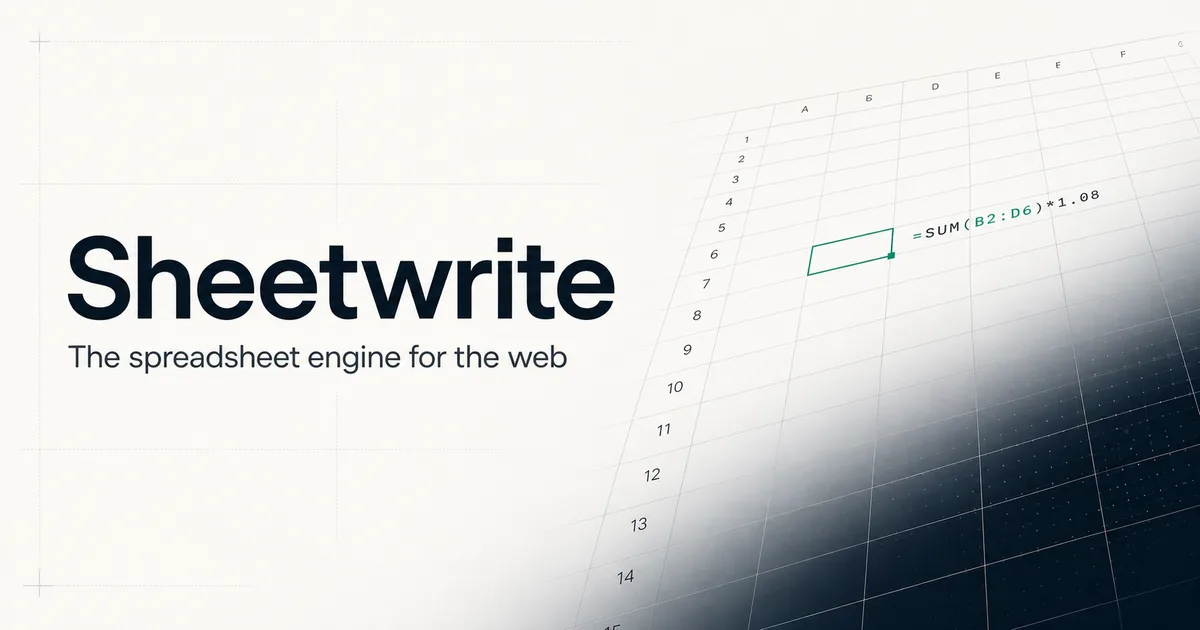
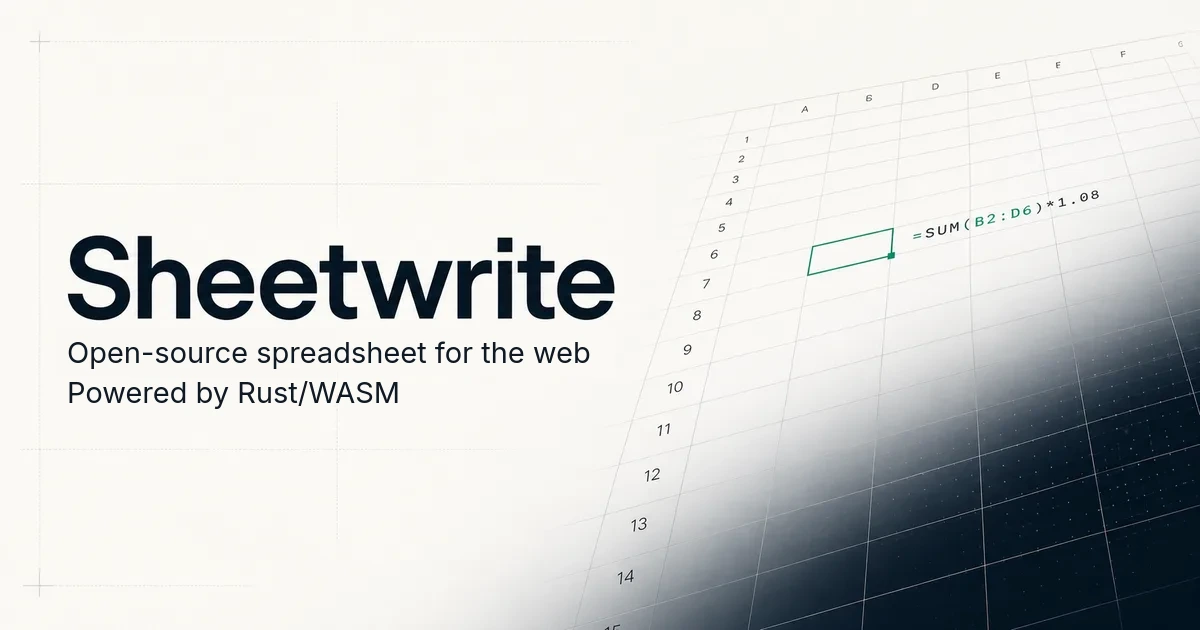
chore: capture current release baseline

Changed region(s): [[0.0308, 0.5429, 0.4933, 0.6635]]

diff --git a/docs/src/routes/__root.tsx b/docs/src/routes/__root.tsx
@@ -13,7 +13,7 @@ const THEME_SCRIPT =
 
 const SITE_URL = "https://sheetwrite.vercel.app";
 const SITE_DESCRIPTION =
-  "Build fast, editable web spreadsheets with TypeScript, Canvas, Rust/WASM, and first-party React, Vue, Svelte, and vanilla JavaScript adapters.";
+  "A fast, editable web spreadsheet and data-grid library with a TypeScript API and Rust/WASM engine. React, Vue, Svelte, and vanilla adapters included.";
 const SOCIAL_IMAGE_ALT = "Sheetwrite spreadsheet grid showing typed web data";
 const STRUCTURED_DATA = JSON.stringify({
   "@context": "https://schema.org",
@@ -66,7 +66,10 @@ export const Route = createRootRoute({
         { property: "og:type", content: "website" },
         { property: "og:site_name", content: "Sheetwrite" },
         { property: "og:locale", content: "en_US" },
-        { property: "og:title", content: "Sheetwrite — TypeScript spreadsheet engine" },
+        {
+          property: "og:title",
+          content: "Sheetwrite — Web spreadsheet library powered by Rust/WASM",
+        },
         { property: "og:description", content: SITE_DESCRIPTION },
         { property: "og:url", content: canonical },
         { property: "og:image", content: `${SITE_URL}/og-sheetwrite.webp` },
@@ -74,7 +77,10 @@ export const Route = createRootRoute({
         { property: "og:image:height", content: "630" },
         { property: "og:image:alt", content: SOCIAL_IMAGE_ALT },
         { name: "twitter:card", content: "summary_large_image" },
-        { name: "twitter:title", content: "Sheetwrite — TypeScript spreadsheet engine" },
+        {
+          name: "twitter:title",
+          content: "Sheetwrite — Web spreadsheet library powered by Rust/WASM",
+        },
         { name: "twitter:description", content: SITE_DESCRIPTION },
         { name: "twitter:image", content: `${SITE_URL}/og-sheetwrite.webp` },
         { name: "twitter:image:alt", content: SOCIAL_IMAGE_ALT },

diff --git a/packages/core/test/input.test.ts b/packages/core/test/input.test.ts
@@ -141,6 +141,31 @@ describe("pointer input: mouse parity", () => {
     expect(capture.released).toEqual([1]);
   });
 
+  it("focuses the grid on mouse selection so printable keys start editing", () => {
+    const { grid, scroller, workbook, host } = makeGrid();
+    let focusCalls = 0;
+    const nativeFocus = host.focus.bind(host);
+    host.focus = (options?: FocusOptions) => {
+      focusCalls += 1;
+      nativeFocus(options);
+    };
+    const outside = document.createElement("button");
+    document.body.appendChild(outside);
+    outside.focus();
+
+    scroller.dispatchEvent(pointer("pointerdown", { ...cellPoint(1, 1, workbook) }));
+    expect(focusCalls).toBe(1);
+
+    host.dispatchEvent(new KeyboardEvent("keydown", { key: "Q", bubbles: true }));
+    const editor = host.querySelector("textarea.sheetwrite-editor");
+    expect(editor).toBeInstanceOf(HTMLTextAreaElement);
+    expect((editor as HTMLTextAreaElement).value).toBe("Q");
+    editor?.dispatchEvent(new KeyboardEvent("keydown", { key: "Escape", bubbles: true }));
+
+    grid.destroy();
+    outside.remove();
+  });
+
   it("drag on a column boundary commits a width patch", () => {
     const { store, scroller, workbook } = makeGrid();
     const boundaryX = DEFAULT_THEME.rowHeaderWidth + (workbook.sheets[0]?.columns[0]?.width ?? 0);

diff --git a/docs/src/routes/index.tsx b/docs/src/routes/index.tsx
@@ -7,8 +7,8 @@ import { pageMeta } from "../lib/seo.js";
 export const Route = createFileRoute("/")({
   head: () => ({
     meta: pageMeta(
-      "Sheetwrite — TypeScript spreadsheet and data grid",
-      "Build fast, editable web spreadsheets with TypeScript, Canvas, Rust/WASM, and first-party React, Vue, Svelte, and vanilla JavaScript adapters. Get started.",
+      "Sheetwrite — Web spreadsheet library powered by Rust/WASM",
+      "A fast, editable web spreadsheet and data-grid library with a TypeScript API and Rust/WASM engine. React, Vue, Svelte, and vanilla adapters included.",
     ),
   }),
   component: Landing,

diff --git a/packages/core/src/input-controller.ts b/packages/core/src/input-controller.ts
@@ -175,6 +175,9 @@ export class InputController {
       this.attachDrag(e, move, up);
       return;
     }
+    // A selected cell must own subsequent keyboard input across browsers.
+    // Keep touch and active-editor gestures focused where they already are.
+    if (!isTouch && !editor.isEditing) this.deps.host.focus({ preventScroll: true });
 
     const viewportRect = this.deps.viewportEl.getBoundingClientRect();
     const fillHandle = this.fillHandleScreen(this.deps.contentTop(), this.deps.scroller.scrollLeft);
